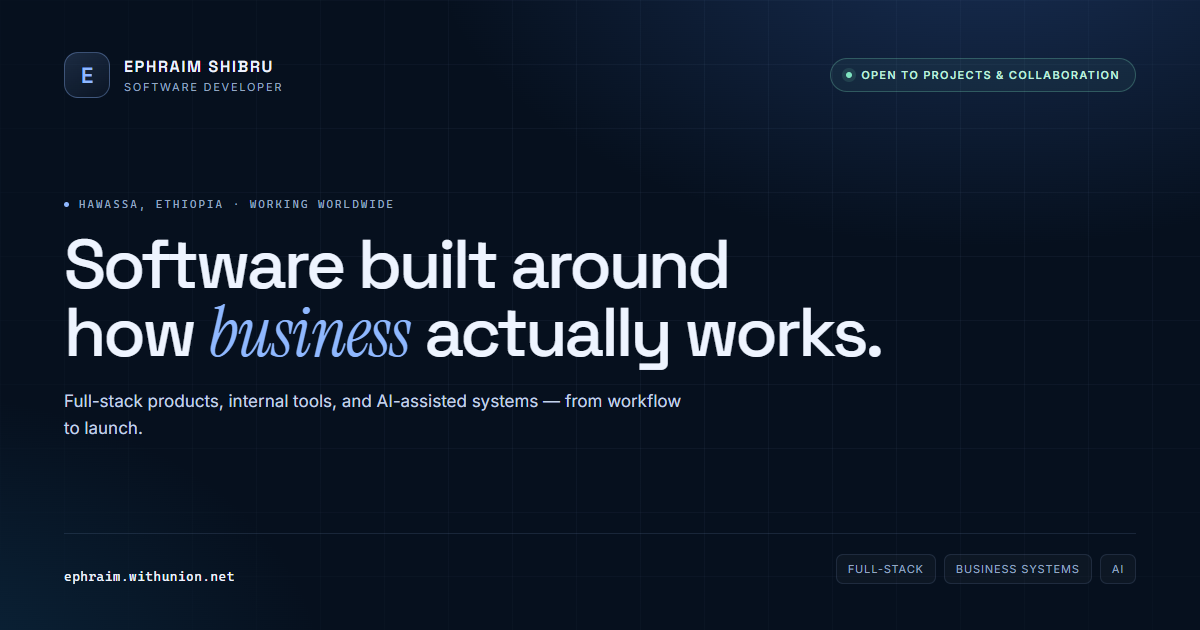
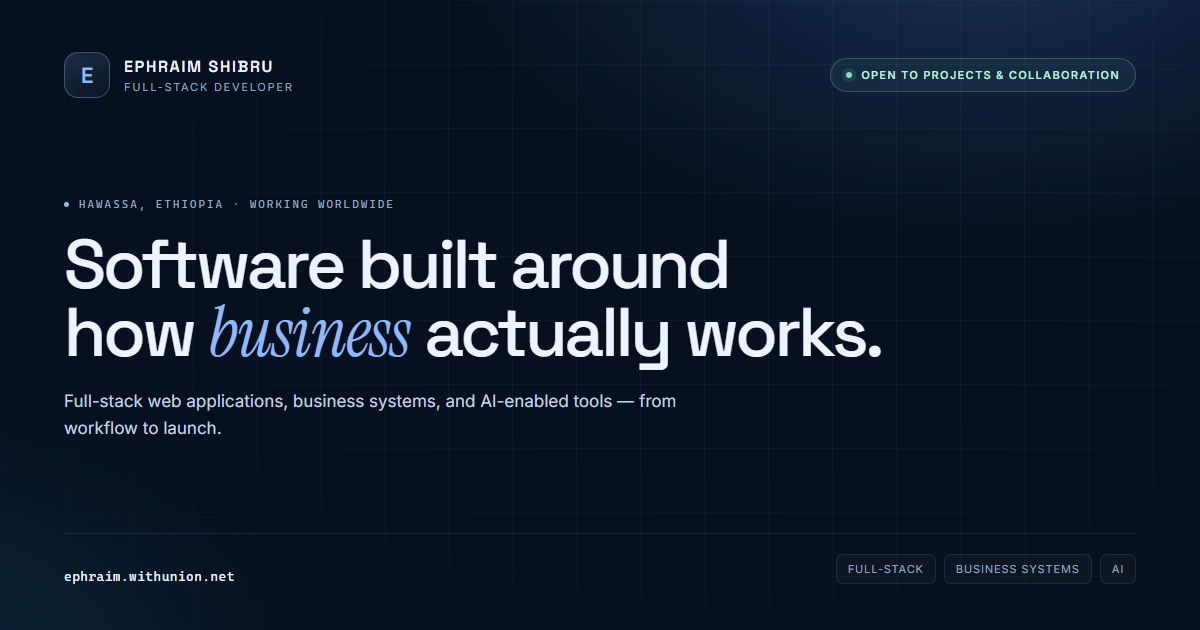
feat: refine professional positioning and hero

Changed region(s): [[0.0308, 0.6032, 0.5858, 0.6937], [0.0925, 0.1206, 0.2467, 0.1508]]

diff --git a/index.html b/index.html
@@ -3,10 +3,10 @@
   <head>
     <meta charset="UTF-8" />
     <meta name="viewport" content="width=device-width, initial-scale=1.0" />
-    <title>Ephraim Shibru | Software Developer &amp; Business Technology</title>
+    <title>Ephraim Shibru | Full-Stack Developer — Business Systems &amp; AI Solutions</title>
     <meta
       name="description"
-      content="Explore the portfolio of Ephraim Shibru — a software developer building practical web applications, business management systems, AI-powered solutions, and digital products."
+      content="Portfolio of Ephraim Shibru — a full-stack developer in Ethiopia building practical web applications, backend services, business management systems, and AI-enabled solutions."
     />
     <link rel="canonical" href="https://ephraim.withunion.net/" />
     <meta name="author" content="Ephraim Shibru" />
@@ -16,23 +16,23 @@
 
     <meta property="og:type" content="website" />
     <meta property="og:site_name" content="Ephraim Shibru" />
-    <meta property="og:title" content="Ephraim Shibru | Software Developer &amp; Business Technology" />
+    <meta property="og:title" content="Ephraim Shibru | Full-Stack Developer — Business Systems &amp; AI Solutions" />
     <meta
       property="og:description"
-      content="Software developer combining full-stack engineering and business thinking to build modern web applications, business systems, and AI-powered tools."
+      content="Full-stack developer combining software engineering and business understanding to build practical web applications, backend services, business systems, and AI-enabled solutions."
     />
     <meta property="og:url" content="https://ephraim.withunion.net/" />
     <meta property="og:image" content="https://ephraim.withunion.net/og-image.png" />
     <meta property="og:image:width" content="1200" />
     <meta property="og:image:height" content="630" />
-    <meta property="og:image:alt" content="Ephraim Shibru — Software Developer and Business Technology" />
+    <meta property="og:image:alt" content="Ephraim Shibru — Full-Stack Developer, Business Systems and AI Solutions" />
     <meta property="og:locale" content="en_US" />
 
     <meta name="twitter:card" content="summary_large_image" />
-    <meta name="twitter:title" content="Ephraim Shibru | Software Developer &amp; Business Technology" />
+    <meta name="twitter:title" content="Ephraim Shibru | Full-Stack Developer — Business Systems &amp; AI Solutions" />
     <meta
       name="twitter:description"
-      content="Practical web applications, business management systems, AI-powered tools, and digital products built with business context."
+      content="Practical web applications, backend services, business management systems, and AI-enabled tools built with business context."
     />
     <meta name="twitter:image" content="https://ephraim.withunion.net/og-image.png" />
 
@@ -69,8 +69,8 @@
         "mainEntity": {
           "@type": "Person",
           "name": "Ephraim Shibru",
-          "jobTitle": "Software Developer",
-          "description": "Software developer combining full-stack engineering and business thinking to build practical web applications, business management systems, and AI-powered tools.",
+          "jobTitle": "Full-Stack Developer",
+          "description": "Full-stack developer combining software engineering and business understanding to build practical web applications, backend services, business management systems, and AI-enabled solutions.",
           "url": "https://ephraim.withunion.net",
           "image": "https://ephraim.withunion.net/og-image.png",
           "address": {
@@ -122,9 +122,9 @@
     <div id="root"></div>
     <noscript>
       <div style="padding: 3rem 1.5rem; font-family: system-ui, sans-serif; color: #f4f7fc; max-width: 48rem; margin: 0 auto">
-        <h1>Ephraim Shibru — Software Developer</h1>
+        <h1>Ephraim Shibru — Full-Stack Developer</h1>
         <p>
-          This portfolio needs JavaScript enabled. You can reach me on
+          Business Systems &amp; AI Solutions. This portfolio needs JavaScript enabled. You can reach me on
           <a href="https://linkedin.com/in/ephraim-shibru" style="color: #7fb1ff">LinkedIn</a> or
           <a href="https://www.upwork.com/freelancers/~012f4b020e841fa8a3" style="color: #7fb1ff">Upwork</a>.
         </p>

diff --git a/src/sections/About.tsx b/src/sections/About.tsx
@@ -26,28 +26,26 @@ export function About() {
           <div className="about__content">
             <Reveal delay={60}>
               <p className="about__lead">
-                I'm Ephraim Shibru, a software developer working at the intersection of engineering
-                and business operations. My starting point is usually a practical problem: a process
-                that takes too long, records that do not agree, or software nobody wants to use.
+                I'm Ephraim Shibru, a developer from Ethiopia interested in building technology
+                that addresses practical problems.
               </p>
             </Reveal>
 
             <Reveal delay={100} className="about__paragraphs">
               <p>
-                I study Information Technology at Hawassa University and Business Management at
-                Infolink College. That combination shapes how I build. I care about clean
-                implementation, but I also care whether the product makes sense for the people
-                running the business.
+                My background combines Information Technology at Hawassa University with Business
+                Management at Infolink College. That mix gives me an interest in both how software
+                is engineered and how businesses actually operate.
               </p>
               <p>
-                My work spans full-stack web applications, business management systems, backend
-                services, and AI-enabled tools. I'm particularly interested in replacing manual
-                operational work with something clearer, faster, and more dependable.
+                I work across frontend development, backend systems, databases, and AI integration.
+                I particularly enjoy developing business management systems, web applications, and
+                digital products that help organizations improve their operations.
               </p>
               <p>
-                I'm open to client work, technical collaboration, and early-stage product
-                conversations with founders. I value direct communication, realistic scope, and
-                software that earns its place.
+                I'm open to professional opportunities, and to collaborating with founders and
+                early-stage startups — exploring ideas, developing products, and turning concepts
+                into working solutions through thoughtful technical collaboration.
               </p>
             </Reveal>
 
@@ -55,9 +53,8 @@ export function About() {
               <h3 className="about__subhead">Education</h3>
               <div className="education-grid">
                 {education.map((item) => (
-                  <div className="education-card" key={item.field}>
-                    <span className="education-card__kind">{item.kind}</span>
-                    <p className="education-card__field">{item.field}</p>
+                  <div className="education-card" key={item.institution}>
+                    <span className="education-card__kind">{item.field}</span>
                     <p className="education-card__institution">{item.institution}</p>
                   </div>
                 ))}

diff --git a/src/data/site.ts b/src/data/site.ts
@@ -1,17 +1,22 @@
 export const site = {
   name: 'Ephraim Shibru',
   firstName: 'Ephraim',
-  role: 'Software Developer',
-  positioning: 'Software Developer · IT Student · Business Technology',
+  role: 'Full-Stack Developer',
+  focus: 'Business Systems & AI Solutions',
+  positioning: 'Full-Stack Developer | Business Systems & AI Solutions',
+  heroIntro:
+    'I build practical web applications, backend services, and business management systems that solve real-world problems. Combining software engineering with business understanding, I turn ideas and operational challenges into functional digital solutions.',
+  heroSupporting:
+    'From full-stack development and backend architecture to business workflow automation and AI integration, I focus on building useful, reliable, and scalable technology.',
   location: 'Ethiopia',
   locationDetail: 'Hawassa, Ethiopia',
   availability: 'Open to projects & collaboration',
   url: 'https://ephraim.withunion.net',
   businessName: 'WithUnion',
   businessUrl: 'https://withunion.net',
-  title: 'Ephraim Shibru | Software Developer & Business Technology',
+  title: 'Ephraim Shibru | Full-Stack Developer — Business Systems & AI Solutions',
   description:
-    'Explore the portfolio of Ephraim Shibru — a software developer building practical web applications, business management systems, AI-powered solutions, and digital products.',
+    'Portfolio of Ephraim Shibru — a full-stack developer in Ethiopia building practical web applications, backend services, business management systems, and AI-enabled solutions.',
 } as const
 
 export type SocialIcon = 'github' | 'linkedin' | 'upwork' | 'globe'
@@ -69,14 +74,12 @@ export const navigation: NavItem[] = [
 
 export const education = [
   {
-    field: 'Information Technology',
     institution: 'Hawassa University',
-    kind: 'Degree studies',
+    field: 'Information Technology',
   },
   {
-    field: 'Business Management',
     institution: 'Infolink College',
-    kind: 'Business studies',
+    field: 'Business Management',
   },
 ]
 

diff --git a/src/styles/sections.css b/src/styles/sections.css
@@ -60,20 +60,43 @@
 }
 
 .hero__title {
-  max-width: 34rem;
   margin-top: clamp(1.4rem, 3vh, 2.1rem);
-  font-size: clamp(2.7rem, 5.2vw, 4.65rem);
-  font-weight: 500;
-  letter-spacing: -0.05em;
-  line-height: 0.99;
-  text-wrap: balance;
 }
 
-.hero__title em {
-  font-family: var(--font-serif);
-  font-style: italic;
-  font-weight: 400;
-  letter-spacing: -0.02em;
+.hero__name {
+  display: block;
+  max-width: 14ch;
+  font-size: clamp(2.9rem, 6vw, 4.9rem);
+  font-weight: 500;
+  letter-spacing: -0.055em;
+  line-height: 0.95;
+}
+
+.hero__role {
+  display: flex;
+  flex-wrap: wrap;
+  align-items: center;
+  gap: 0.7rem;
+  margin-top: 1.05rem;
+  color: var(--text-soft);
+  font-family: var(--font-sans);
+  font-size: clamp(0.86rem, 0.3vw + 0.8rem, 0.98rem);
+  font-weight: 600;
+  letter-spacing: 0.015em;
+  line-height: 1.4;
+}
+
+.hero__role-primary {
+  color: var(--text);
+}
+
+.hero__role-divider {
+  width: 1px;
+  height: 0.95rem;
+  background: var(--accent-line);
+}
+
+.hero__role-focus {
   color: var(--accent);
 }
 
@@ -426,18 +449,13 @@
   text-transform: uppercase;
 }
 
-.education-card__field {
+.education-card__institution {
   margin-top: 0.5rem;
   font-family: var(--font-display);
   font-size: 1rem;
   letter-spacing: -0.015em;
   line-height: 1.3;
-}
-
-.education-card__institution {
-  margin-top: 0.18rem;
-  color: var(--text-muted);
-  font-size: 0.82rem;
+  color: var(--text);
 }
 
 .principle-list {
@@ -1532,8 +1550,17 @@ textarea.input {
 }
 
 @media (max-width: 480px) {
-  .hero__title {
-    font-size: clamp(2.4rem, 11vw, 3rem);
+  .hero__name {
+    font-size: clamp(2.4rem, 11vw, 3.1rem);
+  }
+
+  .hero__role {
+    gap: 0.55rem;
+    font-size: 0.82rem;
+  }
+
+  .hero__role-divider {
+    display: none;
   }
 
   .hero__eyebrow-sep {

diff --git a/src/sections/Hero.tsx b/src/sections/Hero.tsx
@@ -38,25 +38,25 @@ export function Hero() {
             </p>
 
             <h1 className="hero__title">
-              Building <em>practical</em> digital solutions for real-world problems.
+              <span className="hero__name">{site.name}</span>{' '}
+              <span className="hero__role">
+                <span className="hero__role-primary">{site.role}</span>
+                <span className="hero__role-divider" aria-hidden="true" />
+                {' '}
+                <span className="hero__role-focus">{site.focus}</span>
+              </span>
             </h1>
 
-            <p className="hero__text">
-              I'm {site.name}, a software developer combining full-stack engineering and business
-              thinking to build modern web applications, intelligent tools, and practical business
-              systems.
-            </p>
-            <p className="hero__text hero__text--muted">
-              Open to meaningful projects, freelance work, and startup collaborations.
-            </p>
+            <p className="hero__text">{site.heroIntro}</p>
+            <p className="hero__text hero__text--muted">{site.heroSupporting}</p>
 
             <div className="hero__actions">
               <Link to="/#projects" className="btn btn--primary">
                 Explore my work
                 <Icon name="arrow-right" size={17} />
               </Link>
-              <Link to="/#collaboration" className="btn btn--ghost">
-                Let's collaborate
+              <Link to="/#contact" className="btn btn--ghost">
+                Discuss a project
                 <Icon name="arrow-up-right" size={16} />
               </Link>
             </div>

diff --git a/design/og.html b/design/og.html
@@ -243,7 +243,7 @@
           <div class="mark">E</div>
           <div>
             <div class="brand-name">EPHRAIM SHIBRU</div>
-            <div class="brand-sub">Software developer</div>
+            <div class="brand-sub">Full-stack developer</div>
           </div>
         </div>
         <div class="badge"><i></i> Open to projects &amp; collaboration</div>
@@ -253,7 +253,7 @@
         <div class="eyebrow"><i></i> HAWASSA, ETHIOPIA · WORKING WORLDWIDE</div>
         <h1>Software built around<br />how <em>business</em> actually works.</h1>
         <p class="lede">
-          Full-stack products, internal tools, and AI-assisted systems — from workflow to launch.
+          Full-stack web applications, business systems, and AI-enabled tools — from workflow to launch.
         </p>
       </div>
 

diff --git a/src/components/Logo.tsx b/src/components/Logo.tsx
@@ -1,5 +1,6 @@
 import { useId } from 'react'
 import { Link } from 'react-router-dom'
+import { site } from '../data/site'
 
 interface LogoProps {
   to?: string
@@ -43,7 +44,7 @@ export function Logo({ to = '/', className, showRole = true }: LogoProps) {
       </svg>
       <span className="brand__text">
         <span className="brand__name">Ephraim Shibru</span>
-        {showRole ? <span className="brand__role">Software Developer</span> : null}
+        {showRole ? <span className="brand__role">{site.role}</span> : null}
       </span>
     </>
   )

diff --git a/src/components/Footer.tsx b/src/components/Footer.tsx
@@ -18,8 +18,8 @@ export function Footer() {
           <div className="footer__brand">
             <Logo />
             <p className="footer__about">
-              Software developer working between full-stack engineering, business systems, and
-              practical product design. Based in {site.locationDetail}.
+              Full-stack developer working between web applications, business systems, and
+              AI-enabled solutions. Based in {site.locationDetail}.
             </p>
           </div>
 

diff --git a/README.md b/README.md
@@ -1,7 +1,7 @@
 # Ephraim Shibru — Portfolio
 
-Personal portfolio and case-study site for Ephraim Shibru, a software developer working across
-full-stack applications, business systems, and AI-enabled tools.
+Personal portfolio and case-study site for Ephraim Shibru, a full-stack developer working across
+web applications, business systems, and AI-enabled solutions.
 
 **Production domain:** https://ephraim.withunion.net
 
@@ -45,6 +45,14 @@ It writes screenshots and `audit.json` to `design/review/`.
 
 Project previews are real captures of the public demos. Private and in-progress projects use
 conceptual SVG previews from `src/components/PreviewArt.tsx` and are labelled as such.
+
+## CV
+
+No CV asset is currently bundled with the site. To enable a "Download CV" link:
+
+1. Add a verified PDF at `public/cv/ephraim-shibru-cv.pdf`.
+2. Add a CV entry to `src/data/site.ts` and a link in the navigation or contact section.
+3. Confirm the file downloads correctly in the production build.
 
 ## Deployment
 
